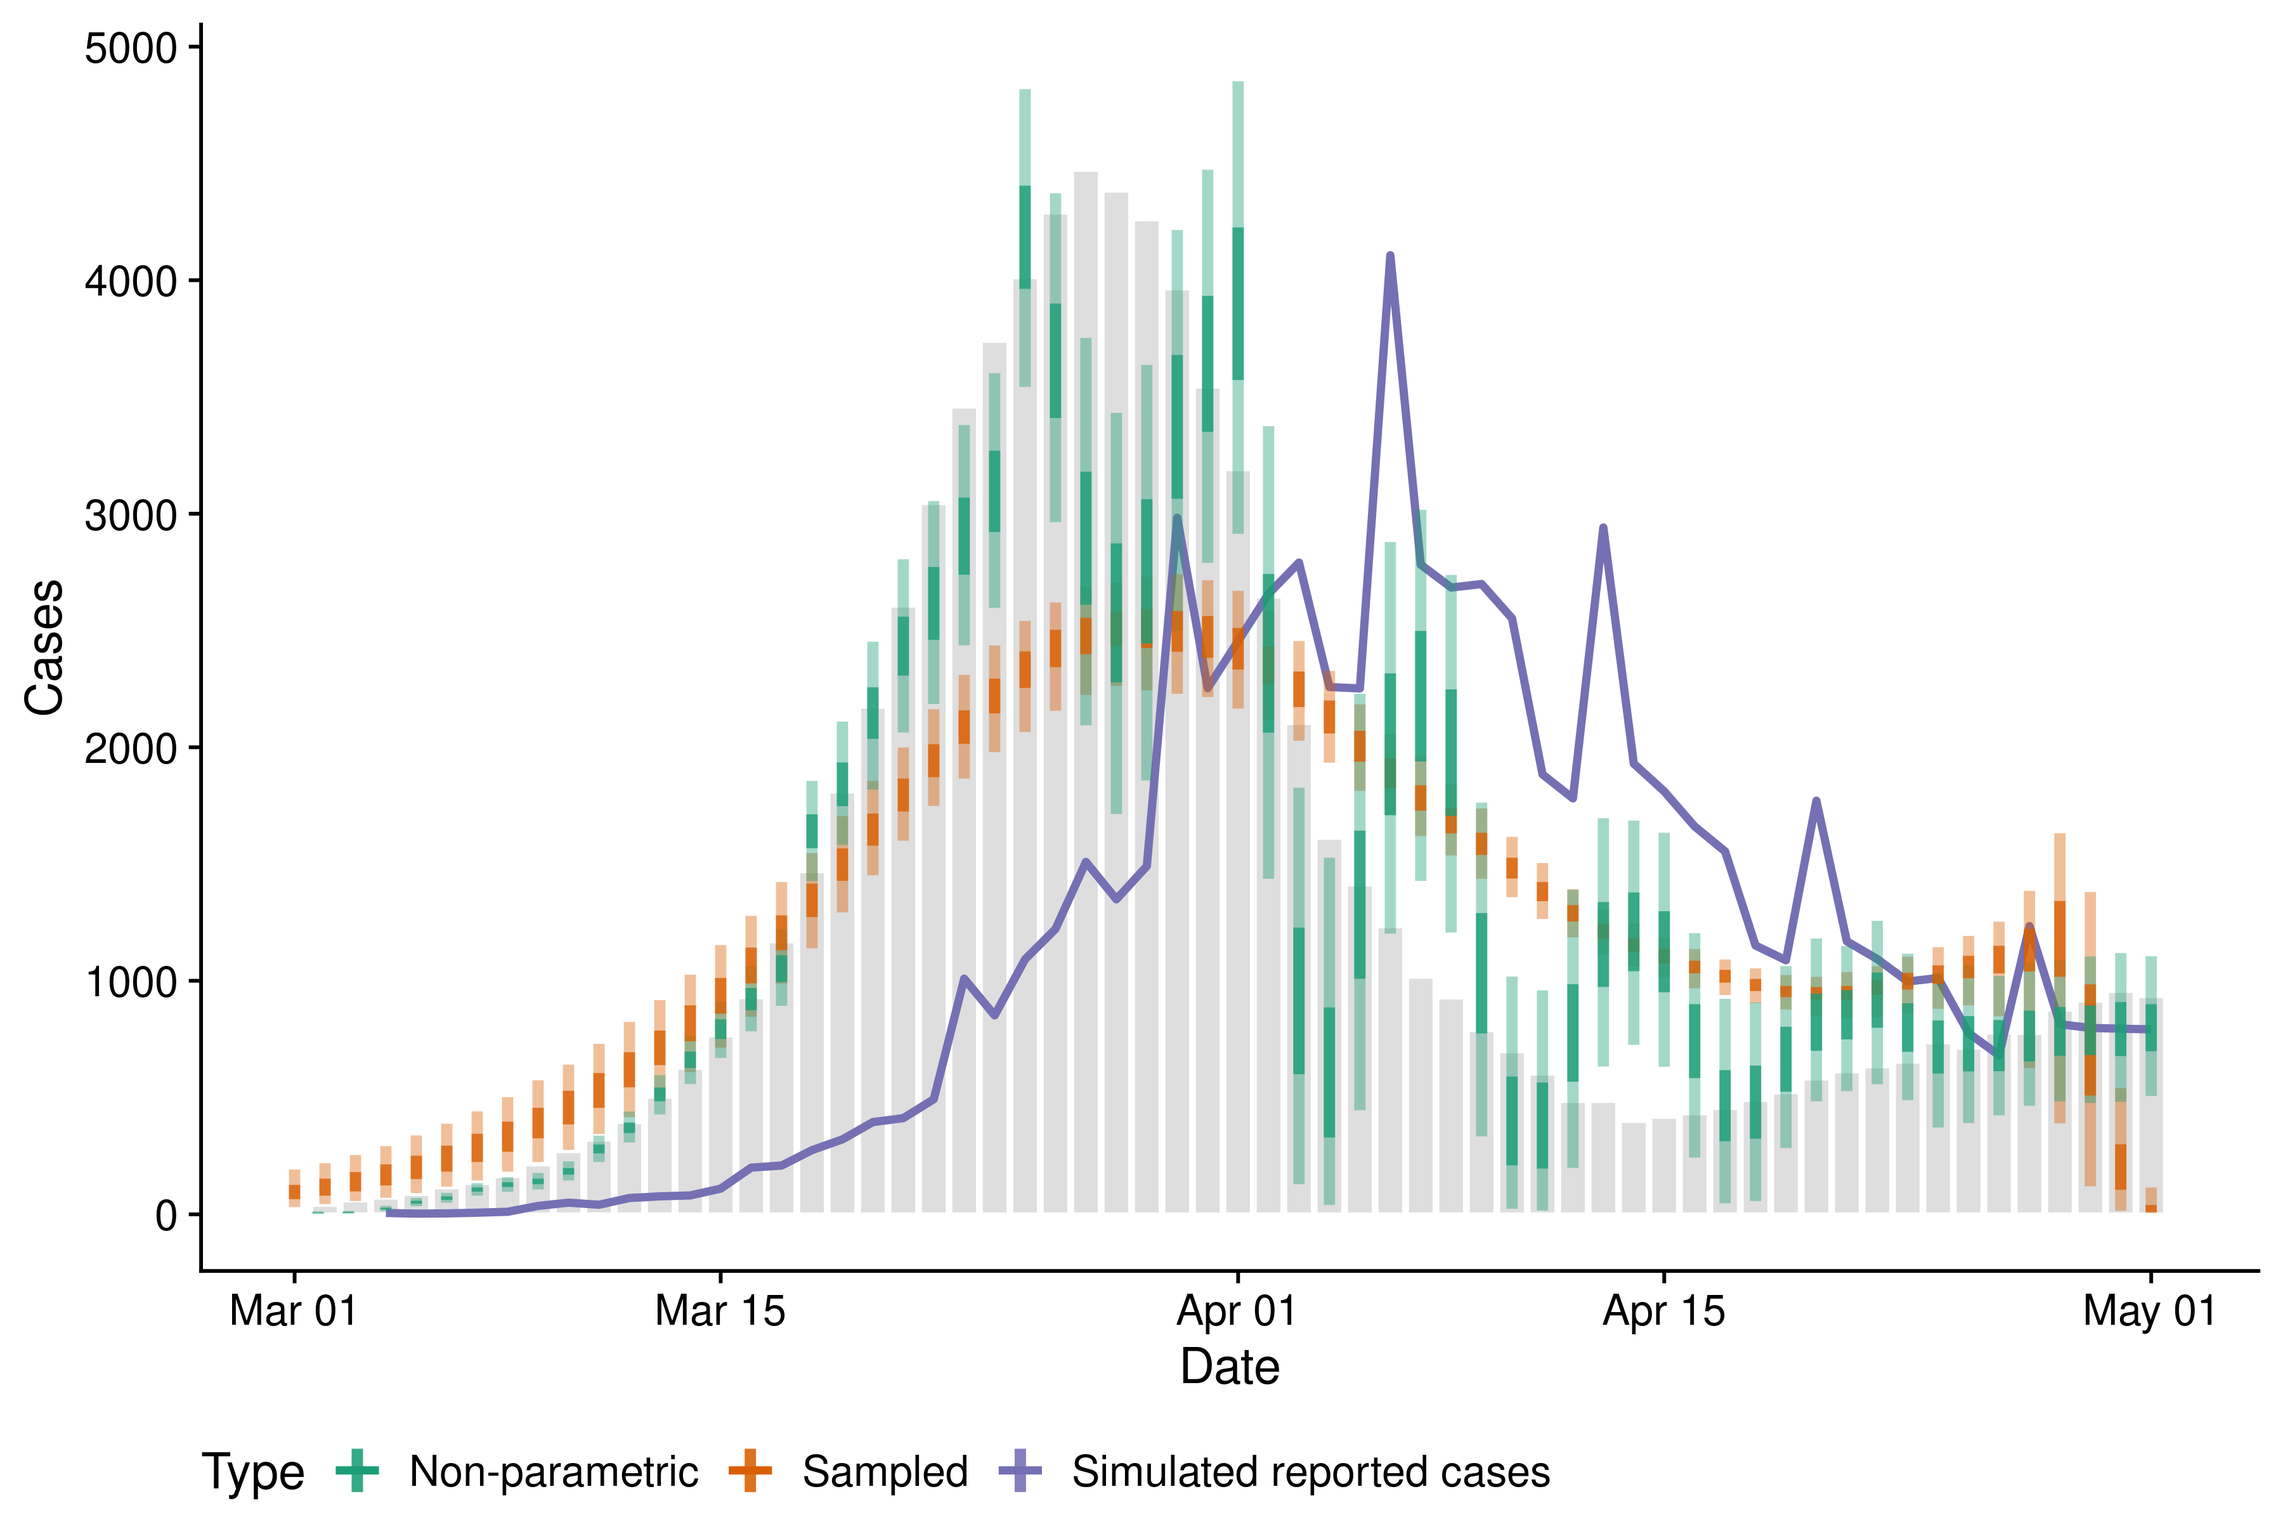
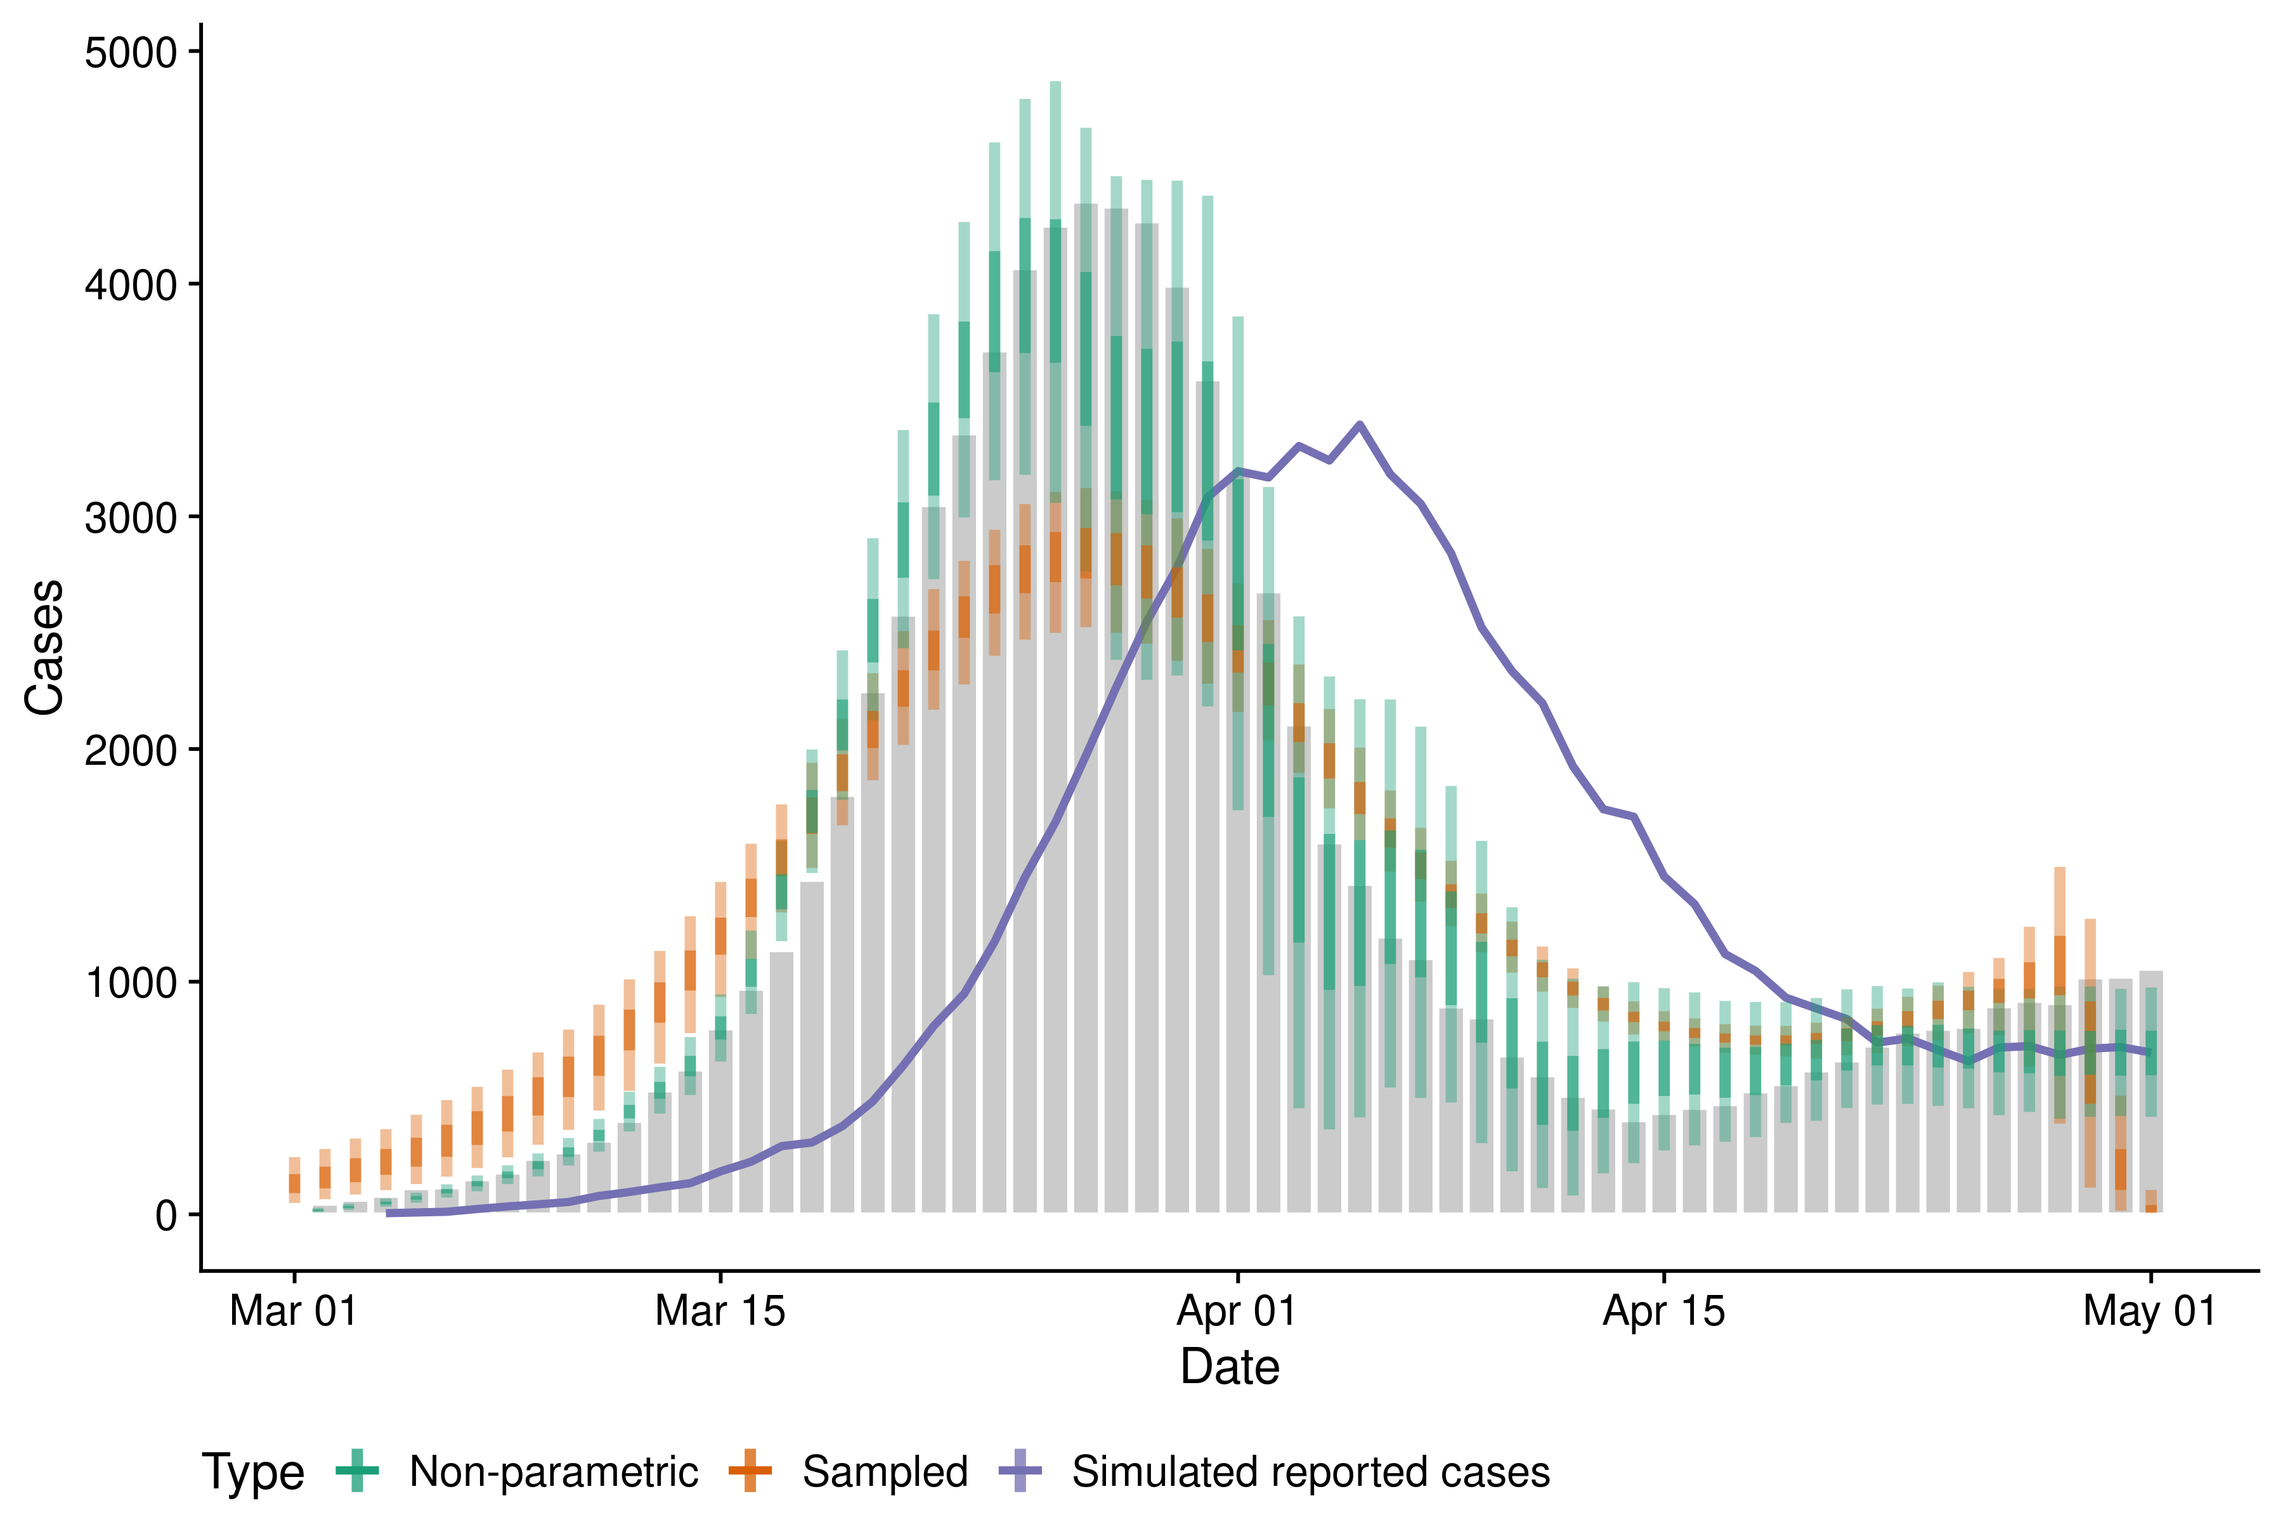
update report

diff --git a/report.md b/report.md
@@ -108,13 +108,6 @@ model
 #>   int model_type; //Type of model: 1 = Poisson otherwise negative binomial
 #> }
 #> 
-#> transformed data{
-#>   int total_cases;
-#>   
-#>   total_cases = sum(cases); //Total cases
-#>   
-#> }
-#> 
 #> parameters{
 #>   vector<lower = 0>[t] noise;
 #>   real <lower = 0> inc_mean;         // mean of incubation period
@@ -122,7 +115,7 @@ model
 #>   real <lower = 0> rep_mean;         // mean of reporting delay
 #>   real <lower = 0> rep_sd;           // sd of incubation period
 #>   real<lower = 0> phi; 
-#>   vector[6] day_of_week_eff_raw;
+#>   vector[7] day_of_week_eff;
 #> }
 #> 
 #> transformed parameters {
@@ -131,11 +124,7 @@ model
 #>   vector<lower = 0>[t] infections;
 #>   vector<lower = 0>[t] onsets;
 #>   vector<lower = 0>[t] reports;
-#>   vector[7] day_of_week_eff;
-#>   
-#>   //Constrain day of week to sum to 0
-#>   day_of_week_eff = 1 + append_row(day_of_week_eff_raw, -sum(day_of_week_eff_raw));
-#>   
+#> 
 #>   //Reverse the distributions to allow vectorised access
 #>     for (j in 1:max_rep) {
 #>       rev_delay[j] =
@@ -150,7 +139,6 @@ model
 #>   //Generation infections from median shifted cases and non-parameteric noise
 #>   infections = shifted_cases .* noise;
 #> 
-#>   
 #>   // Onsets from infections
 #>   onsets = convolve(infections, rev_incubation);
 #>      
@@ -165,8 +153,8 @@ model
 #> 
 #> model {
 #>   // Week effect - upweighted by overall time
-#>   for (j in 1:6) {
-#>     day_of_week_eff_raw[j] ~ normal(0, 0.2) T[-1,];
+#>   for (j in 1:7) {
+#>     day_of_week_eff[j] ~ normal(1, 0.1) T[0,];
 #>   }
 #> 
 #>   // Reporting overdispersion
@@ -185,10 +173,10 @@ model
 #>   }
 #> 
 #>   // penalised priors
-#>   target += normal_lpdf(inc_mean | inc_mean_mean, inc_mean_sd) * total_cases;
-#>   target += normal_lpdf(inc_sd | inc_sd_mean, inc_sd_sd) * total_cases;
-#>   target += normal_lpdf(rep_mean | rep_mean_mean, rep_mean_sd) * total_cases;
-#>   target += normal_lpdf(rep_sd | rep_sd_mean, rep_sd_sd) * total_cases;
+#>   target += normal_lpdf(inc_mean | inc_mean_mean, inc_mean_sd) * t;
+#>   target += normal_lpdf(inc_sd | inc_sd_mean, inc_sd_sd) * t;
+#>   target += normal_lpdf(rep_mean | rep_mean_mean, rep_mean_sd) * t;
+#>   target += normal_lpdf(rep_sd | rep_sd_mean, rep_sd_sd) * t;
 #> }
 #>   
 #> generated quantities {
@@ -268,20 +256,20 @@ incubation_defs <- EpiNow::lognorm_dist_def(mean = incubation_period$mean,
 simulated_cases <- EpiNow::simulate_cases(rts, initial_cases = 100 , initial_date = as.Date("2020-03-01"),
                                           generation_interval = generation_interval, delay_def = delay_defs[1, ],
                                           incubation_def = incubation_defs[1, ],
-                                          reporting_effect = c(1.4, rep(1, 4), 0.8, 0.8))
+                                          reporting_effect = c(1, rep(1, 4), 1, 1))
 simulated_cases
 #>            date cases reference
-#>   1: 2020-03-02    40 infection
-#>   2: 2020-03-03    59 infection
-#>   3: 2020-03-04    71 infection
-#>   4: 2020-03-05    87 infection
+#>   1: 2020-03-02    45 infection
+#>   2: 2020-03-03    62 infection
+#>   3: 2020-03-04    79 infection
+#>   4: 2020-03-05   112 infection
 #>   5: 2020-03-06   115 infection
 #>  ---                           
-#> 177: 2020-04-27  1234    report
-#> 178: 2020-04-28   814    report
-#> 179: 2020-04-29   798    report
-#> 180: 2020-04-30   795    report
-#> 181: 2020-05-01   792    report
+#> 176: 2020-04-27   723    report
+#> 177: 2020-04-28   685    report
+#> 178: 2020-04-29   712    report
+#> 179: 2020-04-30   719    report
+#> 180: 2020-05-01   695    report
 ```
 
 ### Compare approaches on simulated data
@@ -306,7 +294,8 @@ non_parametric_cases <- nowcast(simulated_reports,
                                 family = "poisson", incubation_period = incubation_period,
                                 reporting_delay = reporting_delay,
                                 generation_interval = generation_interval, cores = 4, chains = 4,
-                                samples = 1000, return_all = TRUE, model = model)
+                                samples = 1000, return_all = TRUE, model = model, verbose = TRUE)
+#> Running for 2000 samples and 62 time steps
 ```
 
 ### Compare approaches on reported Covid-19 cases in Austria, the United Kingdom, United States of America and Russia
@@ -371,14 +360,14 @@ names(results) <- countries
 
 ``` r
 non_parametric_cases$day_of_week[, as.list(summary(value)), by = "wday"]
-#>         wday          Min.   1st Qu.    Median      Mean   3rd Qu.     Max.
-#> 1:    Monday  0.5472302474 1.0945078 1.2196821 1.2140842 1.3385553 1.884797
-#> 2:   Tuesday  0.4122134039 0.9664770 1.0913634 1.0931463 1.2138123 1.738971
-#> 3: Wednesday  0.5434869617 1.0355248 1.1599328 1.1613311 1.2841458 1.837412
-#> 4:  Thursday  0.3825441517 0.9342926 1.0584804 1.0623427 1.1941808 1.697699
-#> 5:    Friday  0.3958615607 0.9106349 1.0386392 1.0382937 1.1681974 1.653830
-#> 6:  Saturday  0.4071766647 0.8509312 0.9603956 0.9677935 1.0834213 1.633618
-#> 7:    Sunday -0.0005181711 0.2090307 0.4165247 0.4630084 0.6712098 2.026004
+#>         wday      Min.   1st Qu.   Median     Mean  3rd Qu.     Max.
+#> 1:    Monday 0.6531128 0.9389250 1.006474 1.006355 1.075732 1.348900
+#> 2:   Tuesday 0.6705243 0.9460390 1.014237 1.013279 1.078896 1.344906
+#> 3: Wednesday 0.6909572 0.9719831 1.038883 1.039439 1.107212 1.415151
+#> 4:  Thursday 0.6745624 0.9710853 1.036486 1.037105 1.104638 1.363101
+#> 5:    Friday 0.7081111 0.9576162 1.026617 1.026970 1.094591 1.359541
+#> 6:  Saturday 0.6371281 0.9531312 1.018702 1.018458 1.083130 1.387912
+#> 7:    Sunday 0.6373807 0.9477402 1.013375 1.012993 1.078210 1.431345
 ```
 
   - Recover reporting delays
@@ -386,13 +375,13 @@ non_parametric_cases$day_of_week[, as.list(summary(value)), by = "wday"]
 <!-- end list -->
 
 ``` r
-non_parametric_cases$rep_mean[, .(mean = mean(value), sd = sd(value))]
-#>        mean           sd
-#> 1: 1.609207 0.0003674118
-
-non_parametric_cases$rep_sd[, .(mean = mean(value), sd = sd(value))]
-#>         mean           sd
-#> 1: 0.6932067 0.0006540648
+data.table::rbindlist(list(
+  non_parametric_cases$rep_mean[, .(parameter = "mean", mean = mean(value), sd = sd(value))],
+  non_parametric_cases$rep_sd[, .(parameter = "sd", mean = mean(value), sd = sd(value))]
+))
+#>    parameter      mean         sd
+#> 1:      mean 1.4433687 0.01065322
+#> 2:        sd 0.6825381 0.02293643
 ```
 
   - Recover incubation period
@@ -400,13 +389,13 @@ non_parametric_cases$rep_sd[, .(mean = mean(value), sd = sd(value))]
 <!-- end list -->
 
 ``` r
-non_parametric_cases$inc_mean[, .(mean = mean(value), sd = sd(value))]
-#>        mean           sd
-#> 1: 1.620881 0.0002405717
-
-non_parametric_cases$inc_sd[, .(mean = mean(value), sd = sd(value))]
-#>         mean           sd
-#> 1: 0.4179915 0.0002528089
+data.table::rbindlist(list(
+  non_parametric_cases$inc_mean[, .(parameter = "mean", mean = mean(value), sd = sd(value))],
+  non_parametric_cases$inc_sd[, .(parameter = "sd", mean = mean(value), sd = sd(value))]
+))
+#>    parameter      mean          sd
+#> 1:      mean 1.5322065 0.007319253
+#> 2:        sd 0.4162286 0.008369779
 ```
 
   - Prepare data for
@@ -459,7 +448,7 @@ plot_data <- simulated_cases[date >= as.Date("2020-03-01")][,
                                                              "Sampled"))]
 plot <- ggplot2::ggplot(plot_data, ggplot2::aes(x = date, col = type, fill = type)) +
   ggplot2::geom_col(data = plot_data[type %in% "Simulated infections"],
-                    ggplot2::aes(y = median), fill = "grey", col = "white", alpha = 0.5) +
+                    ggplot2::aes(y = median), fill = "grey", col = "white", alpha = 0.8) +
   ggplot2::geom_line(data = plot_data[type %in% "Simulated reported cases"],
                       ggplot2::aes(y = median), size = 1.1) +
   ggplot2::geom_linerange(data = plot_data[!type %in% "Simulated infections"],
@@ -467,7 +456,7 @@ plot <- ggplot2::ggplot(plot_data, ggplot2::aes(x = date, col = type, fill = typ
                          alpha = 0.4, size = 1.5) +
  ggplot2::geom_linerange(data = plot_data[!type %in% "Simulated infections"],
                          ggplot2::aes(ymin = lower, ymax = upper), 
-                         alpha = 0.8, size = 1.5) +
+                         alpha = 0.6, size = 1.5) +
   cowplot::theme_cowplot() +
   ggplot2::theme(legend.position = "bottom") +
   ggplot2::scale_color_brewer(palette = "Dark2") +
@@ -488,44 +477,44 @@ country
 ``` r
 purrr::map(results, ~ .[[2]]$day_of_week[, as.list(summary(value)), by = "wday"])
 #> $Austria
-#>         wday        Min.   1st Qu.    Median      Mean   3rd Qu.     Max.
-#> 1:    Monday 0.203921539 0.6977322 0.8273898 0.8275279 0.9585292 1.430634
-#> 2:   Tuesday 0.212585771 0.8635706 0.9842692 0.9844532 1.1093359 1.707172
-#> 3: Wednesday 0.468760962 0.9618414 1.0780788 1.0795202 1.1968583 1.687708
-#> 4:  Thursday 0.242187163 0.8109178 0.9446312 0.9401582 1.0668435 1.688327
-#> 5:    Friday 0.517459796 0.9858428 1.1149368 1.1116641 1.2378995 1.771132
-#> 6:  Saturday 0.536824823 1.0369854 1.1645164 1.1641848 1.2894801 1.785860
-#> 7:    Sunday 0.006702437 0.6402925 0.8830235 0.8924917 1.1372663 2.062368
+#>         wday      Min.   1st Qu.    Median      Mean  3rd Qu.     Max.
+#> 1:    Monday 0.6676412 0.9082673 0.9705402 0.9708311 1.033064 1.269980
+#> 2:   Tuesday 0.6823819 0.9412162 1.0115988 1.0114968 1.081092 1.338786
+#> 3: Wednesday 0.6811634 0.9709987 1.0364106 1.0366825 1.101619 1.353460
+#> 4:  Thursday 0.6712391 0.9373902 1.0033408 1.0024368 1.065378 1.320292
+#> 5:    Friday 0.6769254 0.9802820 1.0448640 1.0439294 1.108840 1.441265
+#> 6:  Saturday 0.7380218 0.9883838 1.0544996 1.0545595 1.119756 1.451243
+#> 7:    Sunday 0.6480144 0.9430145 1.0083213 1.0106952 1.079246 1.352951
 #> 
 #> $`United Kingdom`
-#>         wday      Min.   1st Qu.    Median      Mean   3rd Qu.     Max.
-#> 1:    Monday 0.4186566 0.9974603 1.0272991 1.0583414 1.1476960 1.828399
-#> 2:   Tuesday 0.2458453 0.7716367 0.9141298 0.8749597 0.9637928 1.414609
-#> 3: Wednesday 0.1521930 0.7172490 0.8576290 0.8174040 0.8874698 1.424750
-#> 4:  Thursday 0.0524984 0.8674008 1.0293289 1.0215632 1.2328497 1.654306
-#> 5:    Friday 0.3923364 0.8949589 0.9361868 0.9632365 1.0543917 1.770535
-#> 6:  Saturday 0.2893985 0.8442183 1.0003801 0.9638488 1.0888727 1.542671
-#> 7:    Sunday 0.2192646 0.9204460 1.2440093 1.3006464 1.5939571 3.056969
+#>         wday      Min.   1st Qu.    Median      Mean  3rd Qu.     Max.
+#> 1:    Monday 0.7170574 0.9729175 1.0333132 1.0360217 1.098460 1.337587
+#> 2:   Tuesday 0.6920269 0.9007676 0.9660277 0.9710540 1.038142 1.361025
+#> 3: Wednesday 0.6136879 0.8990833 0.9685049 0.9675503 1.031976 1.282991
+#> 4:  Thursday 0.6608970 0.9325952 1.0063383 1.0020748 1.070177 1.293154
+#> 5:    Friday 0.6775243 0.9407865 1.0037941 1.0014117 1.065738 1.332668
+#> 6:  Saturday 0.6342760 0.8941373 0.9582596 0.9606533 1.019865 1.288180
+#> 7:    Sunday 0.5559364 0.9443237 1.0097812 1.0065518 1.072582 1.338212
 #> 
 #> $`United States of America`
-#>         wday        Min.   1st Qu.    Median      Mean   3rd Qu.     Max.
-#> 1:    Monday  0.43169846 0.8781315 0.9486829 0.9897660 1.1047992 1.683629
-#> 2:   Tuesday  0.46910565 0.9890050 1.0513251 1.0656711 1.1513993 1.806587
-#> 3: Wednesday  0.14860598 0.8050235 0.9714220 0.9463835 1.1246708 1.470592
-#> 4:  Thursday  0.25380859 0.8907785 1.0518644 0.9971695 1.0763650 1.587378
-#> 5:    Friday  0.40022850 0.9528737 0.9613496 1.0198621 1.1194410 1.744988
-#> 6:  Saturday  0.65193150 1.1692464 1.2611669 1.2959444 1.4149632 1.994529
-#> 7:    Sunday -0.03662948 0.4770890 0.7473808 0.6852034 0.7921001 1.921429
+#>         wday      Min.   1st Qu.    Median      Mean  3rd Qu.     Max.
+#> 1:    Monday 0.7043513 0.9566500 1.0197883 1.0149411 1.086477 1.325957
+#> 2:   Tuesday 0.6052378 0.9368829 1.0032742 0.9977316 1.064806 1.276176
+#> 3: Wednesday 0.6636453 0.9150954 0.9792785 0.9788117 1.041976 1.303144
+#> 4:  Thursday 0.6673683 0.9285620 0.9892827 0.9901722 1.046135 1.352933
+#> 5:    Friday 0.6380658 0.9108173 0.9779014 0.9751748 1.045234 1.269551
+#> 6:  Saturday 0.7440121 0.9582427 1.0355591 1.0295605 1.097019 1.332505
+#> 7:    Sunday 0.5485954 0.9078415 0.9637312 0.9698021 1.032676 1.376006
 #> 
 #> $Russia
-#>         wday        Min.   1st Qu.    Median      Mean   3rd Qu.     Max.
-#> 1:    Monday 0.208517923 0.8816462 1.0416315 0.9830661 1.0492955 1.730430
-#> 2:   Tuesday 0.382022585 0.8444634 1.0245058 0.9744264 1.0830524 1.547434
-#> 3: Wednesday 0.343449654 0.8587513 1.0184822 0.9619894 1.0290466 1.550933
-#> 4:  Thursday 0.482989167 1.0870987 1.1915234 1.1700374 1.2413825 1.825716
-#> 5:    Friday 0.366789472 0.8657412 0.9733470 1.0045423 1.1350429 1.628436
-#> 6:  Saturday 0.656350838 1.1727231 1.2329577 1.2534649 1.3409145 2.025497
-#> 7:    Sunday 0.003628558 0.4839330 0.5563301 0.6524736 0.8323179 2.032958
+#>         wday      Min.   1st Qu.    Median      Mean  3rd Qu.     Max.
+#> 1:    Monday 0.6252180 0.8916495 0.9574409 0.9561427 1.022383 1.306335
+#> 2:   Tuesday 0.6218777 0.8865631 0.9546156 0.9530230 1.020383 1.272346
+#> 3: Wednesday 0.6233002 0.8816429 0.9505116 0.9508674 1.017215 1.336985
+#> 4:  Thursday 0.6596167 0.9356895 1.0055498 1.0048379 1.072138 1.359064
+#> 5:    Friday 0.6163192 0.9119753 0.9807886 0.9794271 1.047413 1.310278
+#> 6:  Saturday 0.6841621 0.9678324 1.0354739 1.0354877 1.103153 1.349413
+#> 7:    Sunday 0.5749125 0.8910831 0.9597149 0.9593049 1.028179 1.341275
 ```
 
   - Prepare data for
